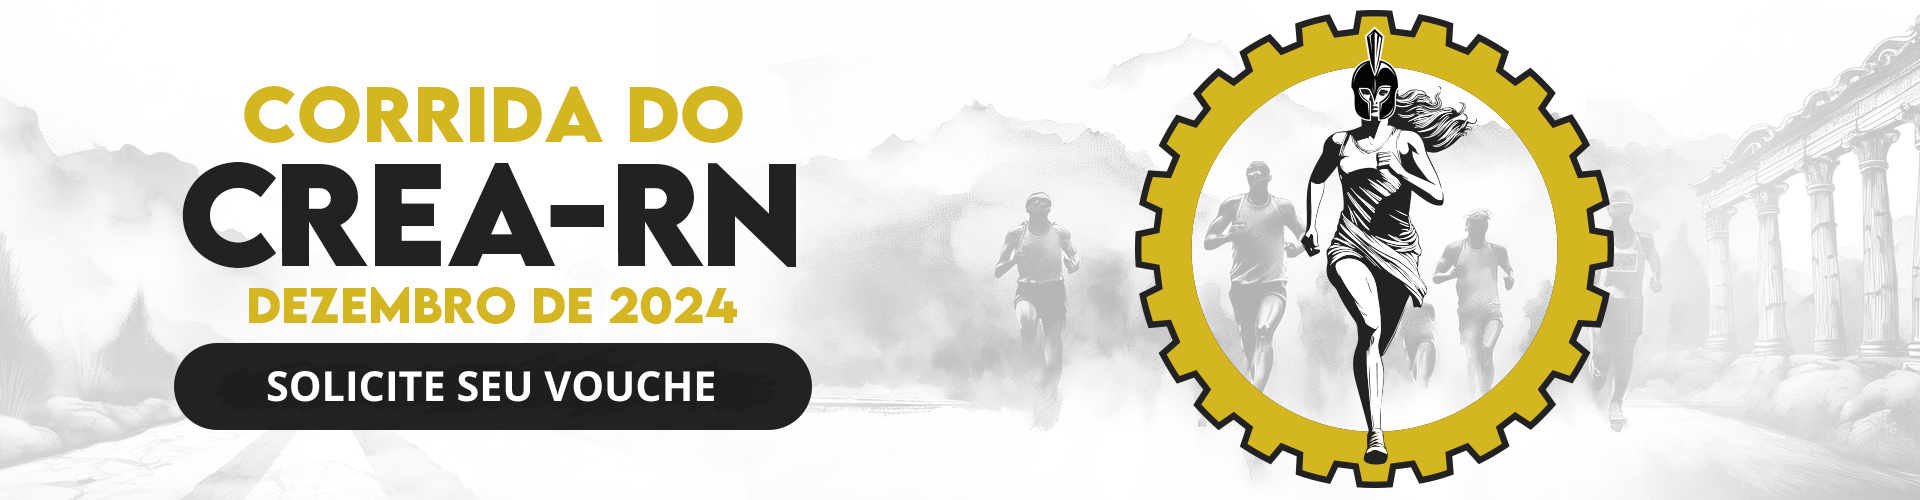
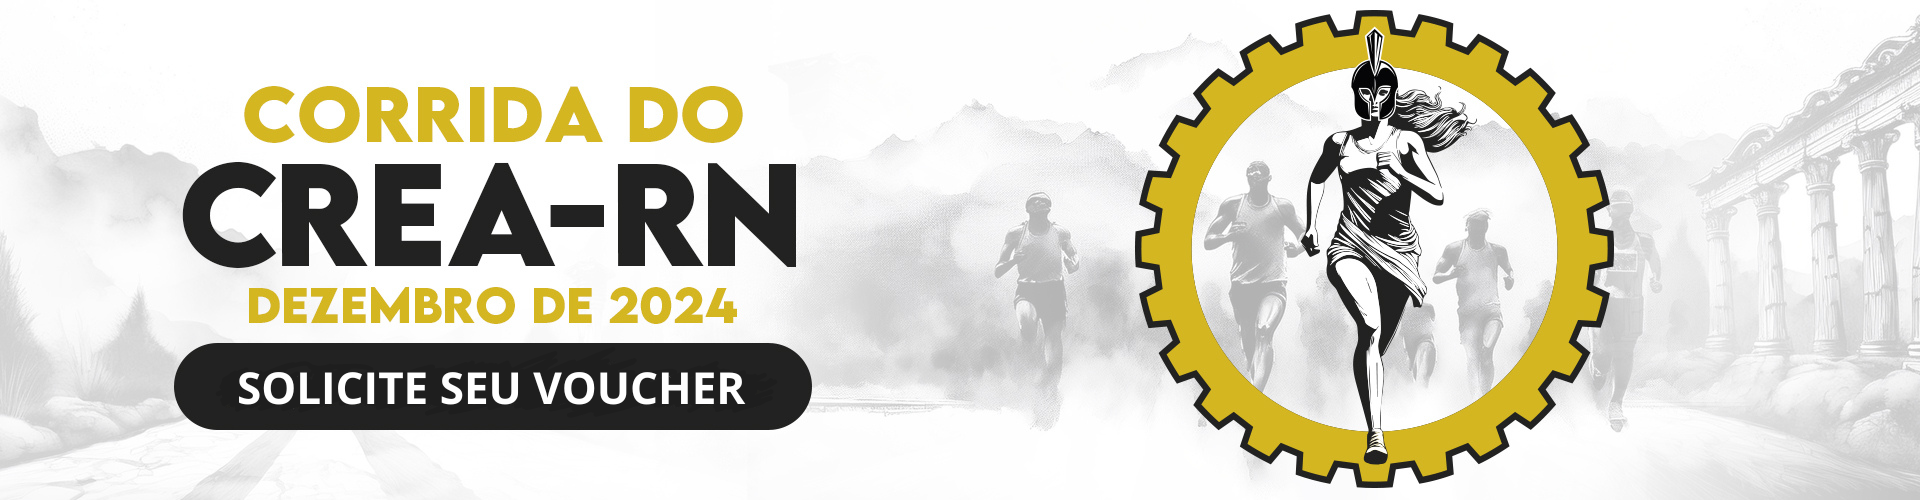
ajuste no butão de voucher

Changed region(s): [[0.125, 0.72, 0.4062, 0.81]]

diff --git a/front/src/components/modal/index.tsx b/front/src/components/modal/index.tsx
@@ -137,7 +137,7 @@ export function ComponenteModal(props: any) {
                                 Clique no botão abaixo para consultar e gerar os seus vouchers.
 
                             </div>
-                            <button className='generate-voucher-btn' onClick={() => setActive(true)}>Quero meu Vouche</button>
+                            <button className='generate-voucher-btn' onClick={() => setActive(true)}>Quero meu Voucher</button>
                         </div>
                     )}
 
